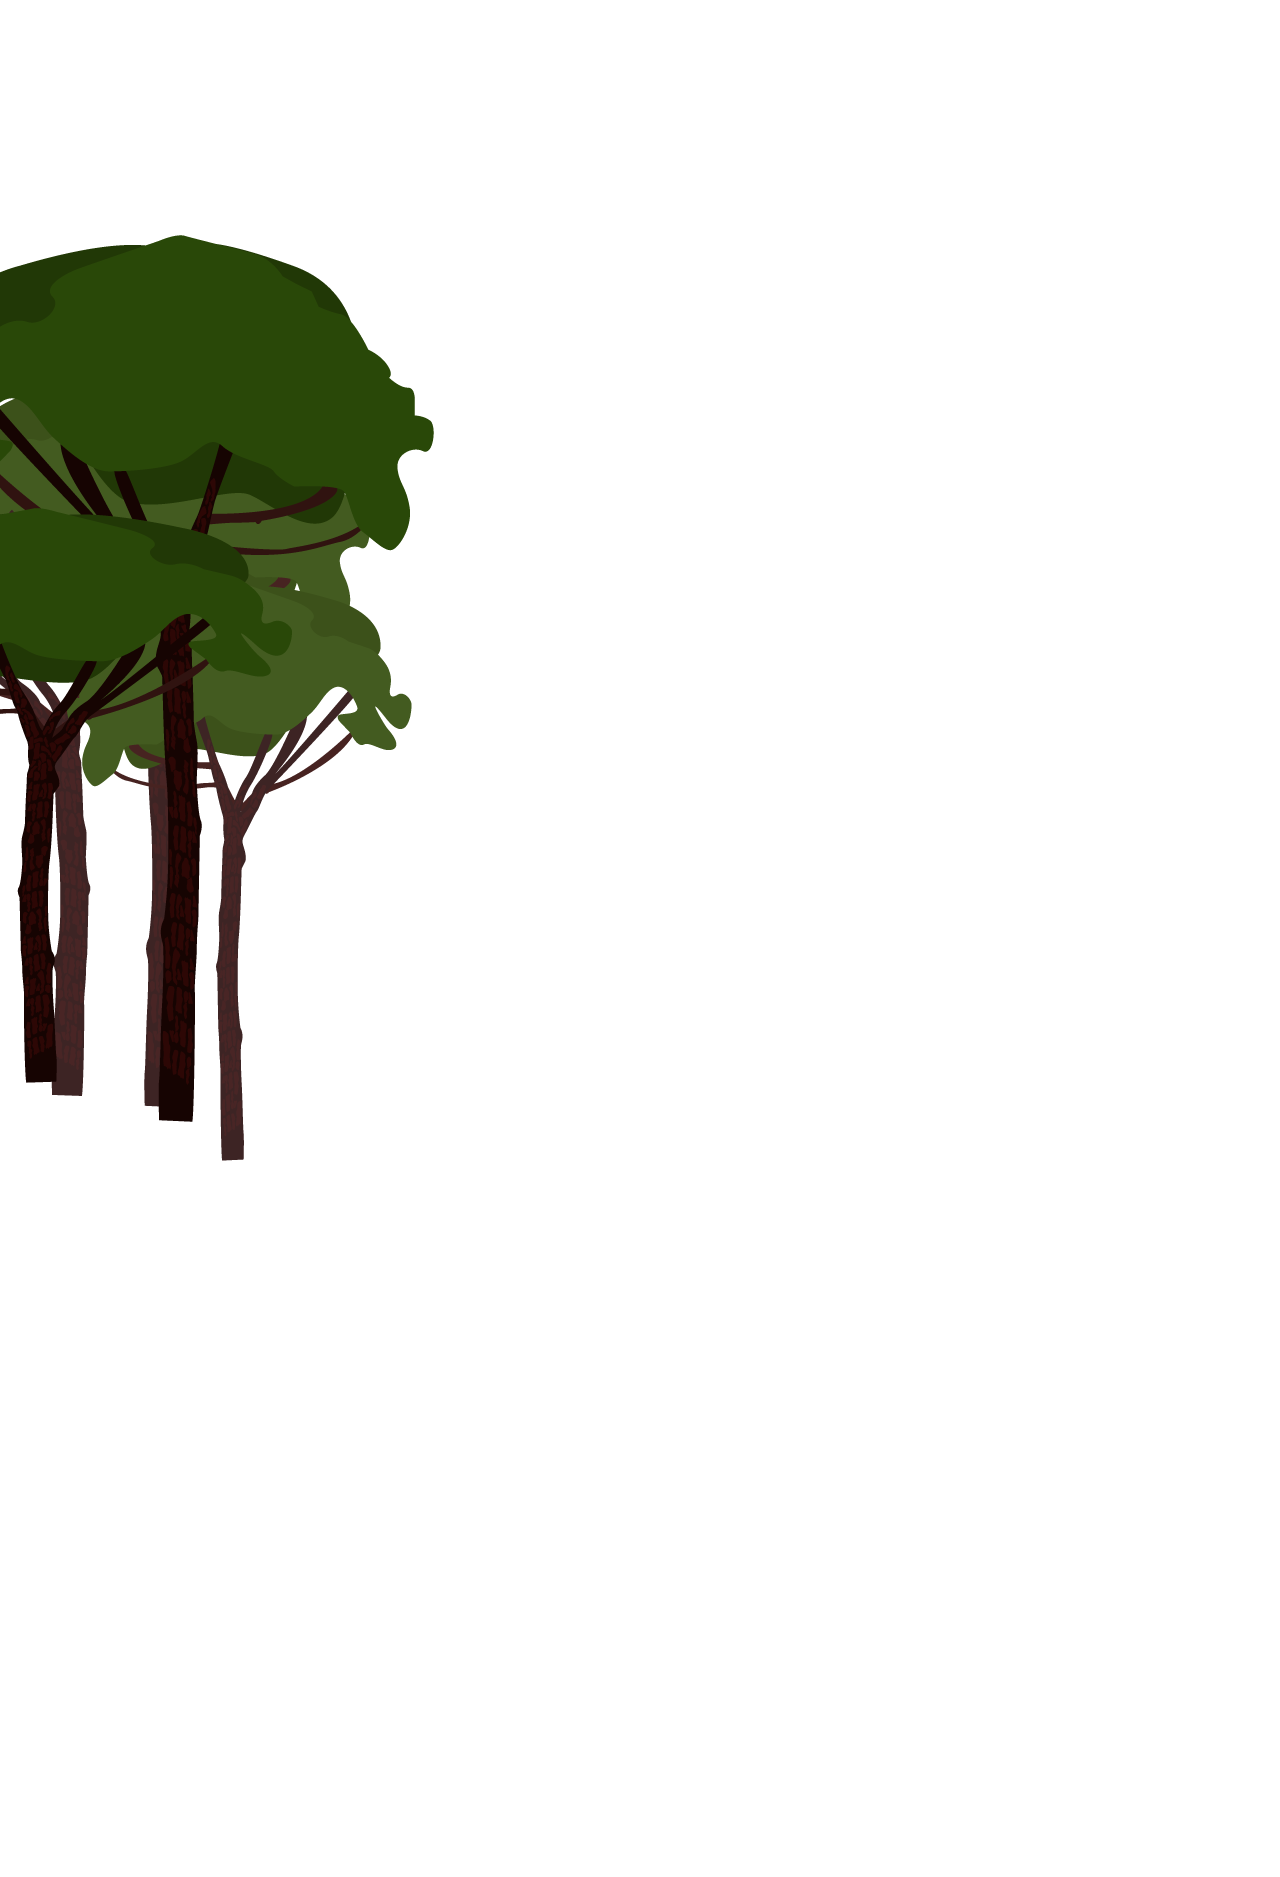
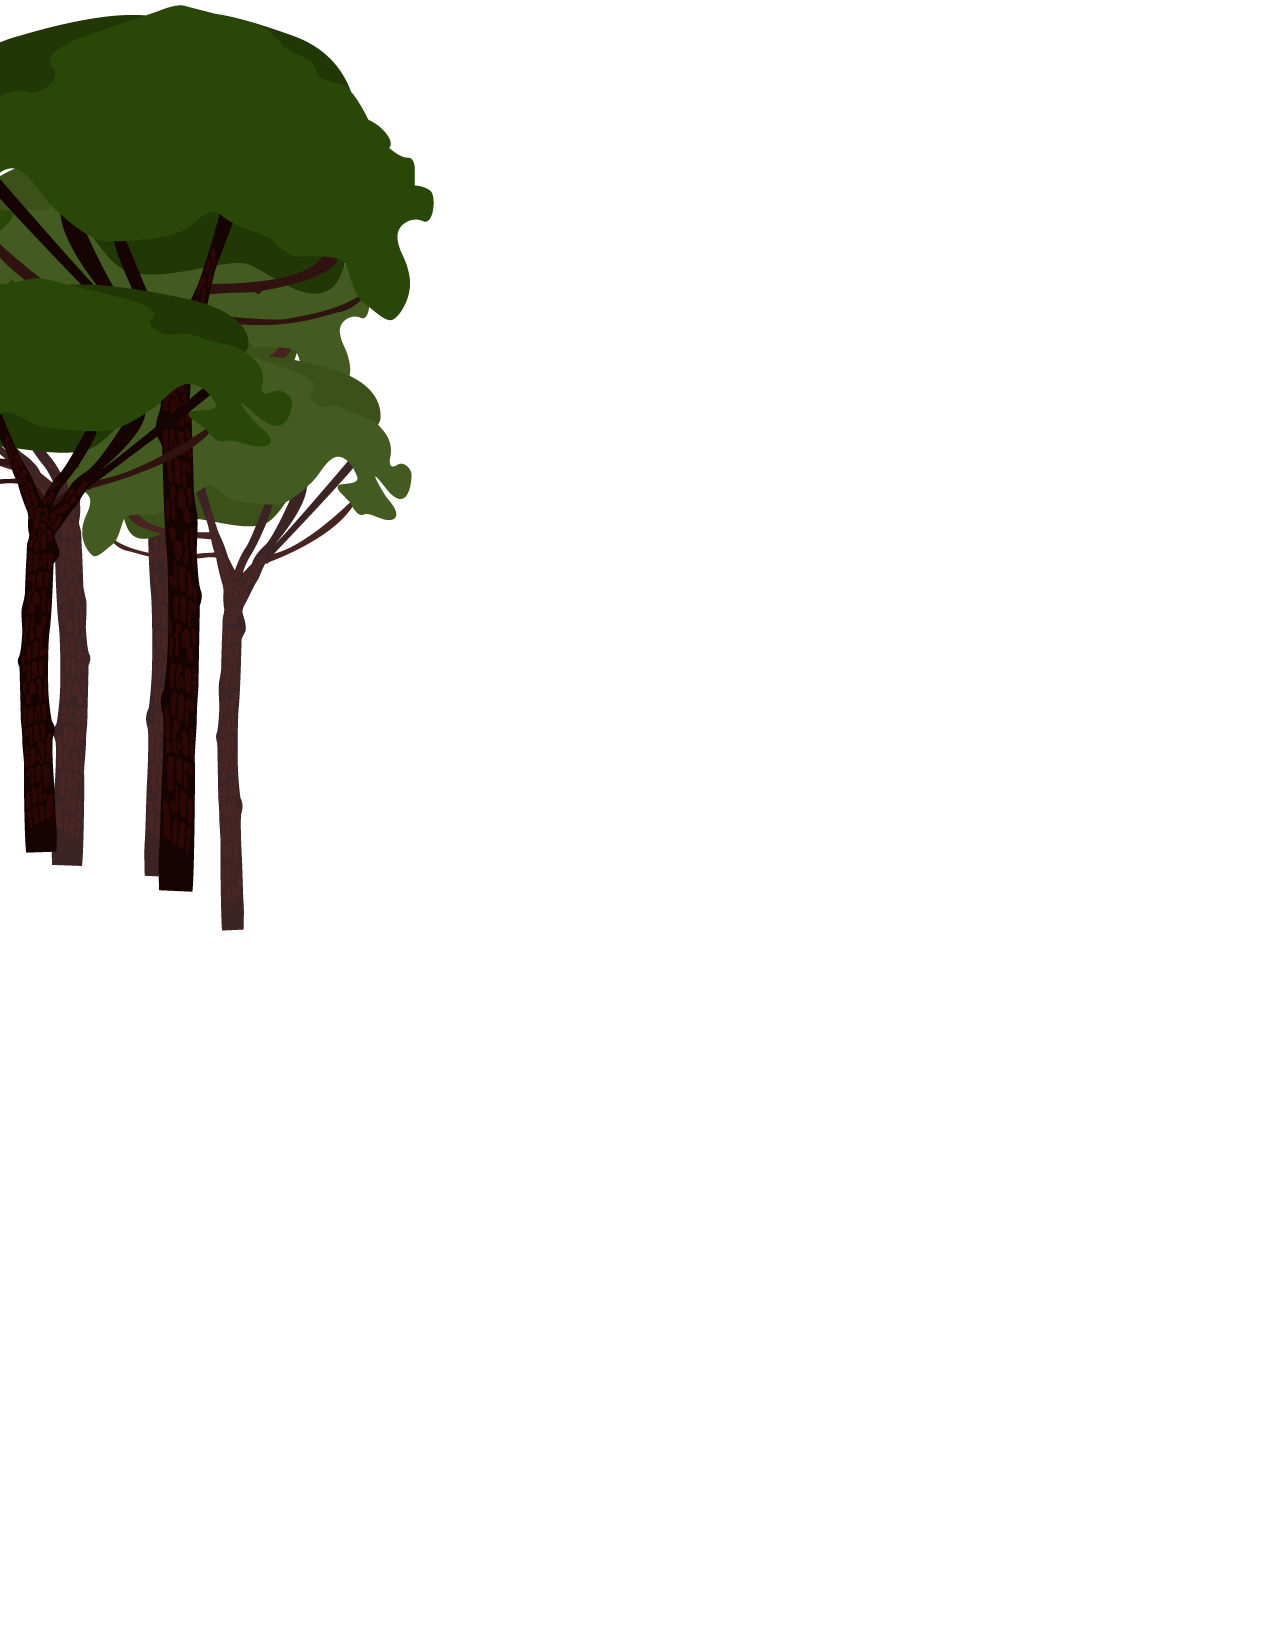
finition du premier parallax plus avancement sur le second

Changed region(s): [[0.0, 0.0, 0.3438, 0.6193]]

diff --git a/web/front/css/style.css b/web/front/css/style.css
@@ -2,6 +2,9 @@
 
 /* PARALLAX1 */
 
+.parallax-container {
+    height: 100vh;
+}
 .keyart, .keyart_layer {
     padding-top: 100%
 }
@@ -16,7 +19,7 @@
 }
 
 #nonparallax {
-    background-image: url('../images/parralax1/Plan5.png');
+    background-image: url('../images/parallax1/Plan5.png');
     background-position: center;
     background-repeat: no-repeat;
     background-size: auto 100%;
@@ -37,28 +40,54 @@
     position: fixed;
 }
 
+/* Parallax 2*/
+#keyart2-6 {
+    background-image: url('../images/parallax2/Plan1.png');
+}
+#keyart2-5 {
+    background-image: url('../images/parallax2/Plan2.png');
+}
+#keyart2-4 {
+    background-image: url('../images/parallax2/Plan3.png');
+}
+#keyart2-3 {
+    background-image: url('../images/parallax2/Plan4.png');
+}
+#keyart2-2 {
+    background-image: url('../images/parallax2/Plan5.png');
+}
+#keyart2-1 {
+    background-image: url('../images/parallax2/Plan6.png');
+}
+#keyart2-0 {
+    background-image: url('../images/parallax2/Plan7.png');
+    background-color: #9ed8b0;
+}
+
+/* Parallax 1*/
 #keyart-6 {
-    background-image: url('../images/parralax1/Plan1.png');
+    background-image: url('../images/parallax1/Plan1.png');
 }
 #keyart-5 {
-    background-image: url('../images/parralax1/Plan2.png');
+    background-image: url('../images/parallax1/Plan2.png');
 }
 #keyart-4 {
-    background-image: url('../images/parralax1/Plan3.png');
+    background-image: url('../images/parallax1/Plan3.png');
 }
 #keyart-3 {
-    background-image: url('../images/parralax1/Plan4.png');
+    background-image: url('../images/parallax1/Plan4.png');
 }
 #keyart-2 {
-    background-image: url('../images/parralax1/Plan5.png');
+    background-image: url('../images/parallax1/Plan5.png');
 }
 #keyart-1 {
-    background-image: url('../images/parralax1/Plan6.png');
+    background-image: url('../images/parallax1/Plan6.png');
 }
 #keyart-0 {
-    background-image: url('../images/parralax1/Plan7.png');
-    background-color: #eddeab;
+    background-image: url('../images/parallax1/Plan7.png');
+    background-color: #000;
 }
+
 #keyart-scrim {
     background-color: #ffaf00;
     opacity: 0;
@@ -131,9 +160,15 @@ ul.navbar-nav li a{
 
 .header-block {
     background-color: #87200c;
-    font-size: 2.5em;
-    bottom: 4em;
+    font-size: 166%;
     color: #eddeab;
+    padding: 45px;
+    top: -127px;
+    position: absolute;
+}
+
+.block-parcours {
+    margin-top: 100px;
 }
 
 .parcours p {
@@ -149,11 +184,10 @@ ul.navbar-nav li a{
 }
 
 .btn-galery {
-    padding: 20px;
+    padding: 30px 30px;
     margin-top: 100px;
-    margin-bottom: 100px;
     background-color: #87200c;
-    font-size: 4em;
+    font-size: 3em;
     color: #eddeab;
 }
 .iframe-youtube iframe {
@@ -169,3 +203,6 @@ h2 {
     font-size: 45px;
 }
 
+.tarif-container {
+    background-color: #87200c;
+}

diff --git a/web/front/js/parallax.js b/web/front/js/parallax.js
@@ -1,29 +1,33 @@
 function castParallax() {
 
   var parallaxContainers = $('.parallax-container');
+  var heightContainers = [parallaxContainers[0].offsetHeight, parallaxContainers[1].offsetHeight];
 
   window.addEventListener("scroll", function(event){
 
     for (var j = 0; j < parallaxContainers.length; j++) {
-      var topParallaxContainer = this.pageYOffset - parallaxContainers[j].offsetTop;
+      var offsetTop = this.pageYOffset - parallaxContainers[j].offsetTop - 1000;
 
-      var heightContainer = parallaxContainers[j].offsetHeight;
-      if (topParallaxContainer >= 0 && topParallaxContainer < heightContainer) {
-        var layers = document.getElementsByClassName("parallax".concat((j+1).toString()));
-        var layer, speed, yPos;
-        for (var i = 0; i < layers.length; i++) {
-          layer = layers[i];
-          speed = layer.getAttribute('data-speed');
-          yPos = -(topParallaxContainer * speed / 100);
-          layer.setAttribute('style', 'transform: translate3d(0px, ' + yPos + 'px, 0px)');
-          layer.setAttribute('style', 'transform: translate3d(0px, ' + yPos + 'px, 0px)');
-        }
-        parallaxContainers[j].style.transform = 'translate3d(0px, ' + heightContainer - topParallaxContainer + 'px, 0px)';
+      var heightContainer = heightContainers[j];
+      if (j == 0 && this.pageYOffset < heightContainer) {
+        moveLayers(this.pageYOffset, j);
+      } else if (j == 1 && this.pageYOffset >= parallaxContainers[j].offsetTop - 200 && offsetTop < heightContainer) {
+        moveLayers(this.pageYOffset - parallaxContainers[j].offsetTop, j);
       }
     }
   });
+}
 
-
+function moveLayers(pageYOffset, numParallax) {
+  var layers = document.getElementsByClassName("parallax".concat((numParallax+1).toString()));
+  var layer, speed, yPos;
+  for (var i = 0; i < layers.length; i++) {
+    layer = layers[i];
+    speed = layer.getAttribute('data-speed');
+    yPos = -(pageYOffset * speed / 100);
+    layer.setAttribute('style', 'transform: translate3d(0px, ' + yPos + 'px, 0px)');
+    layer.setAttribute('style', 'transform: translate3d(0px, ' + yPos + 'px, 0px)');
+  }
 }
 
 function dispelParallax() {
@@ -39,10 +43,7 @@ function castSmoothScroll() {
   });
 }
 
-
-
 function startSite() {
-
   var platform = navigator.platform.toLowerCase();
   var userAgent = navigator.userAgent.toLowerCase();
 
